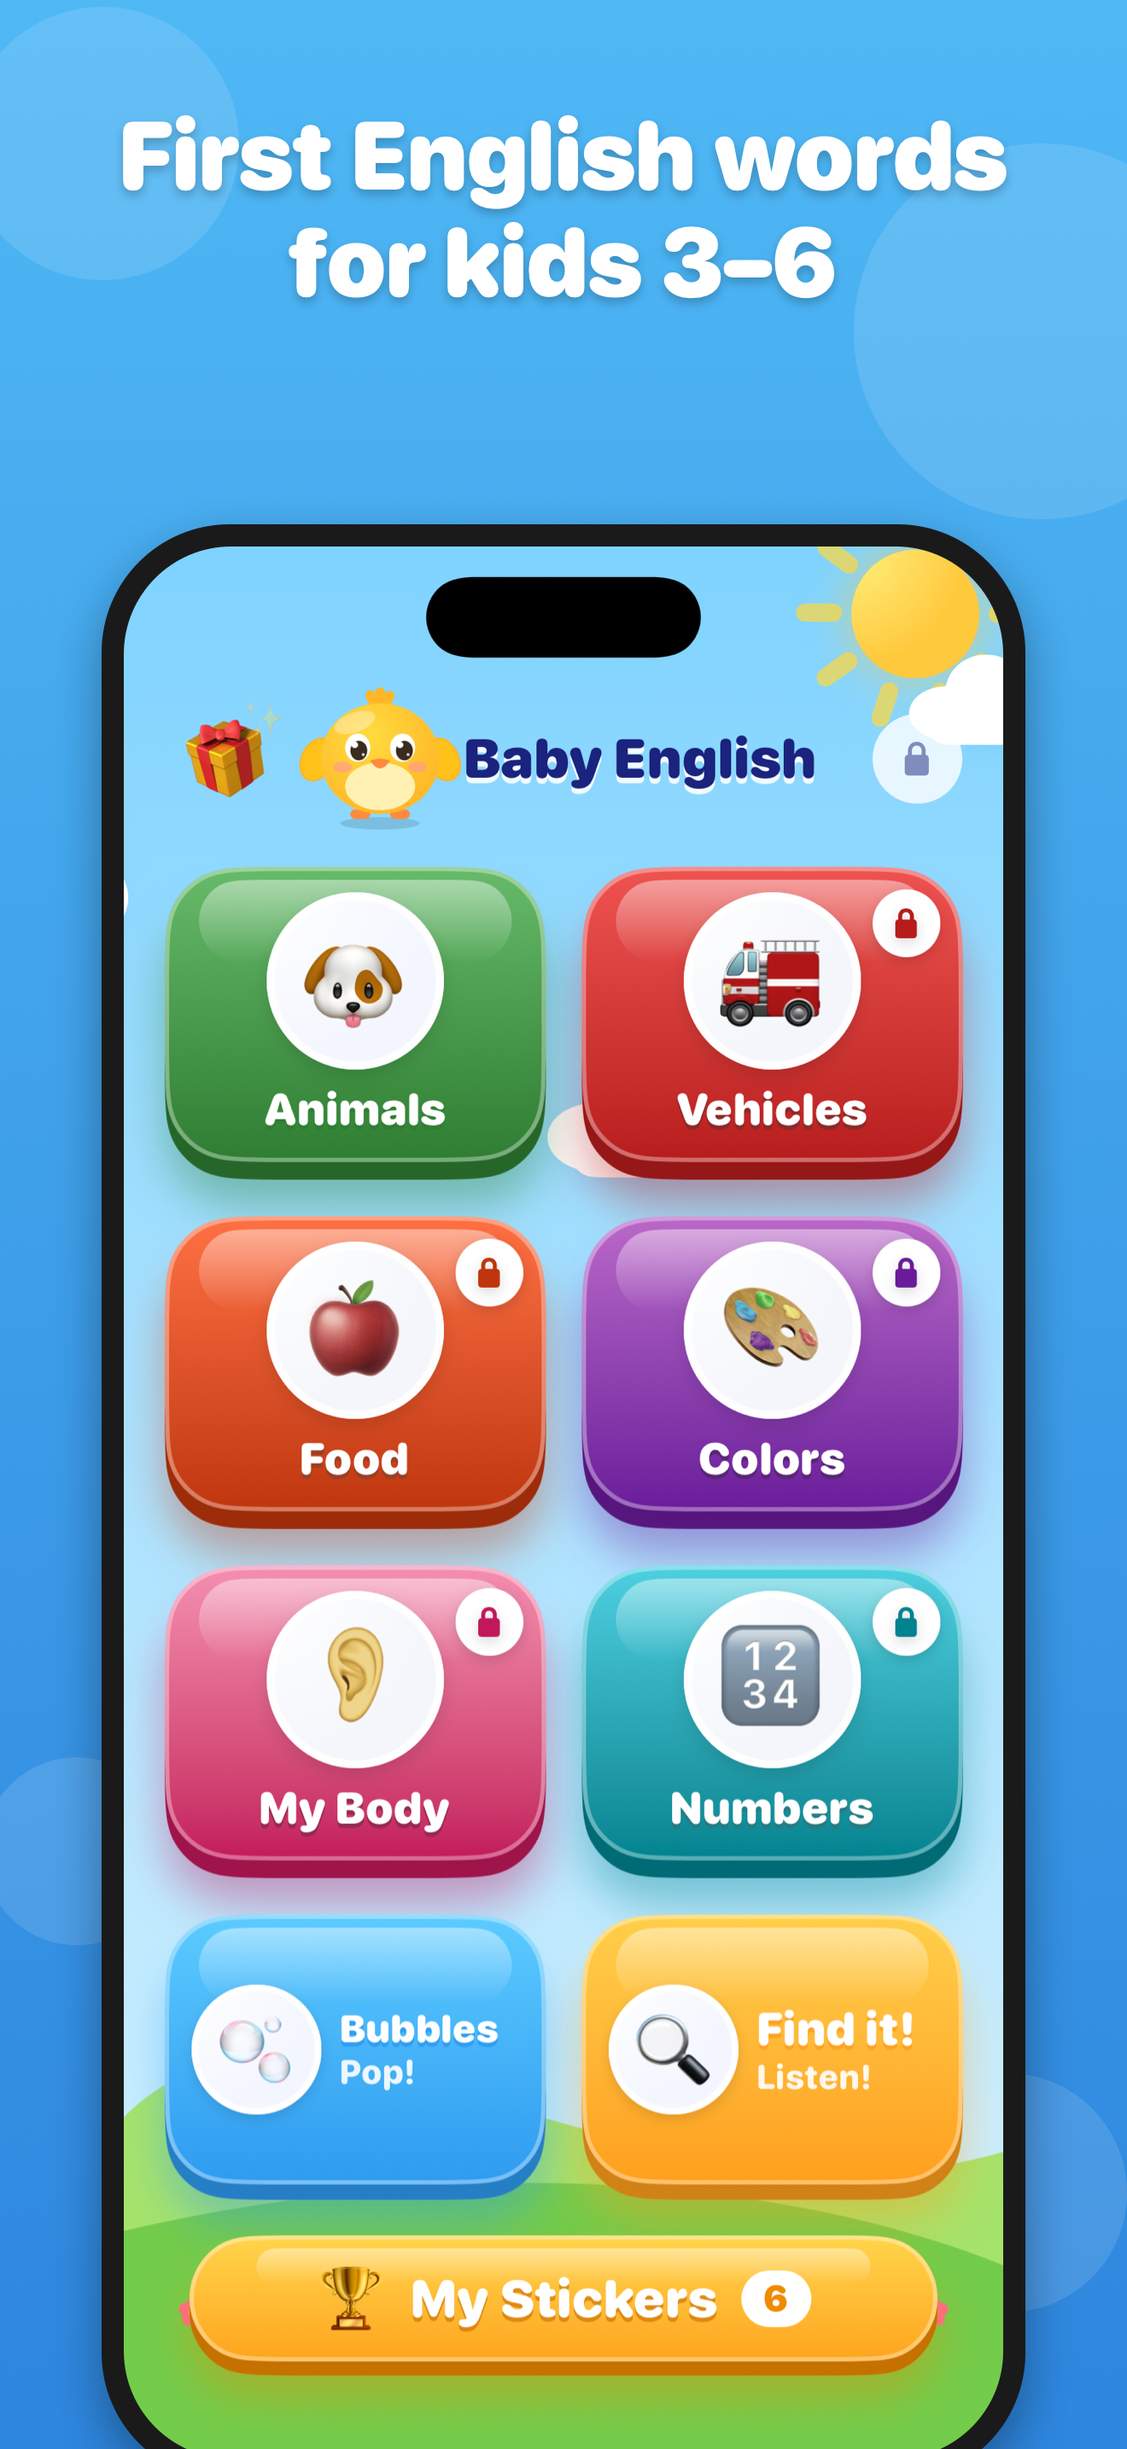
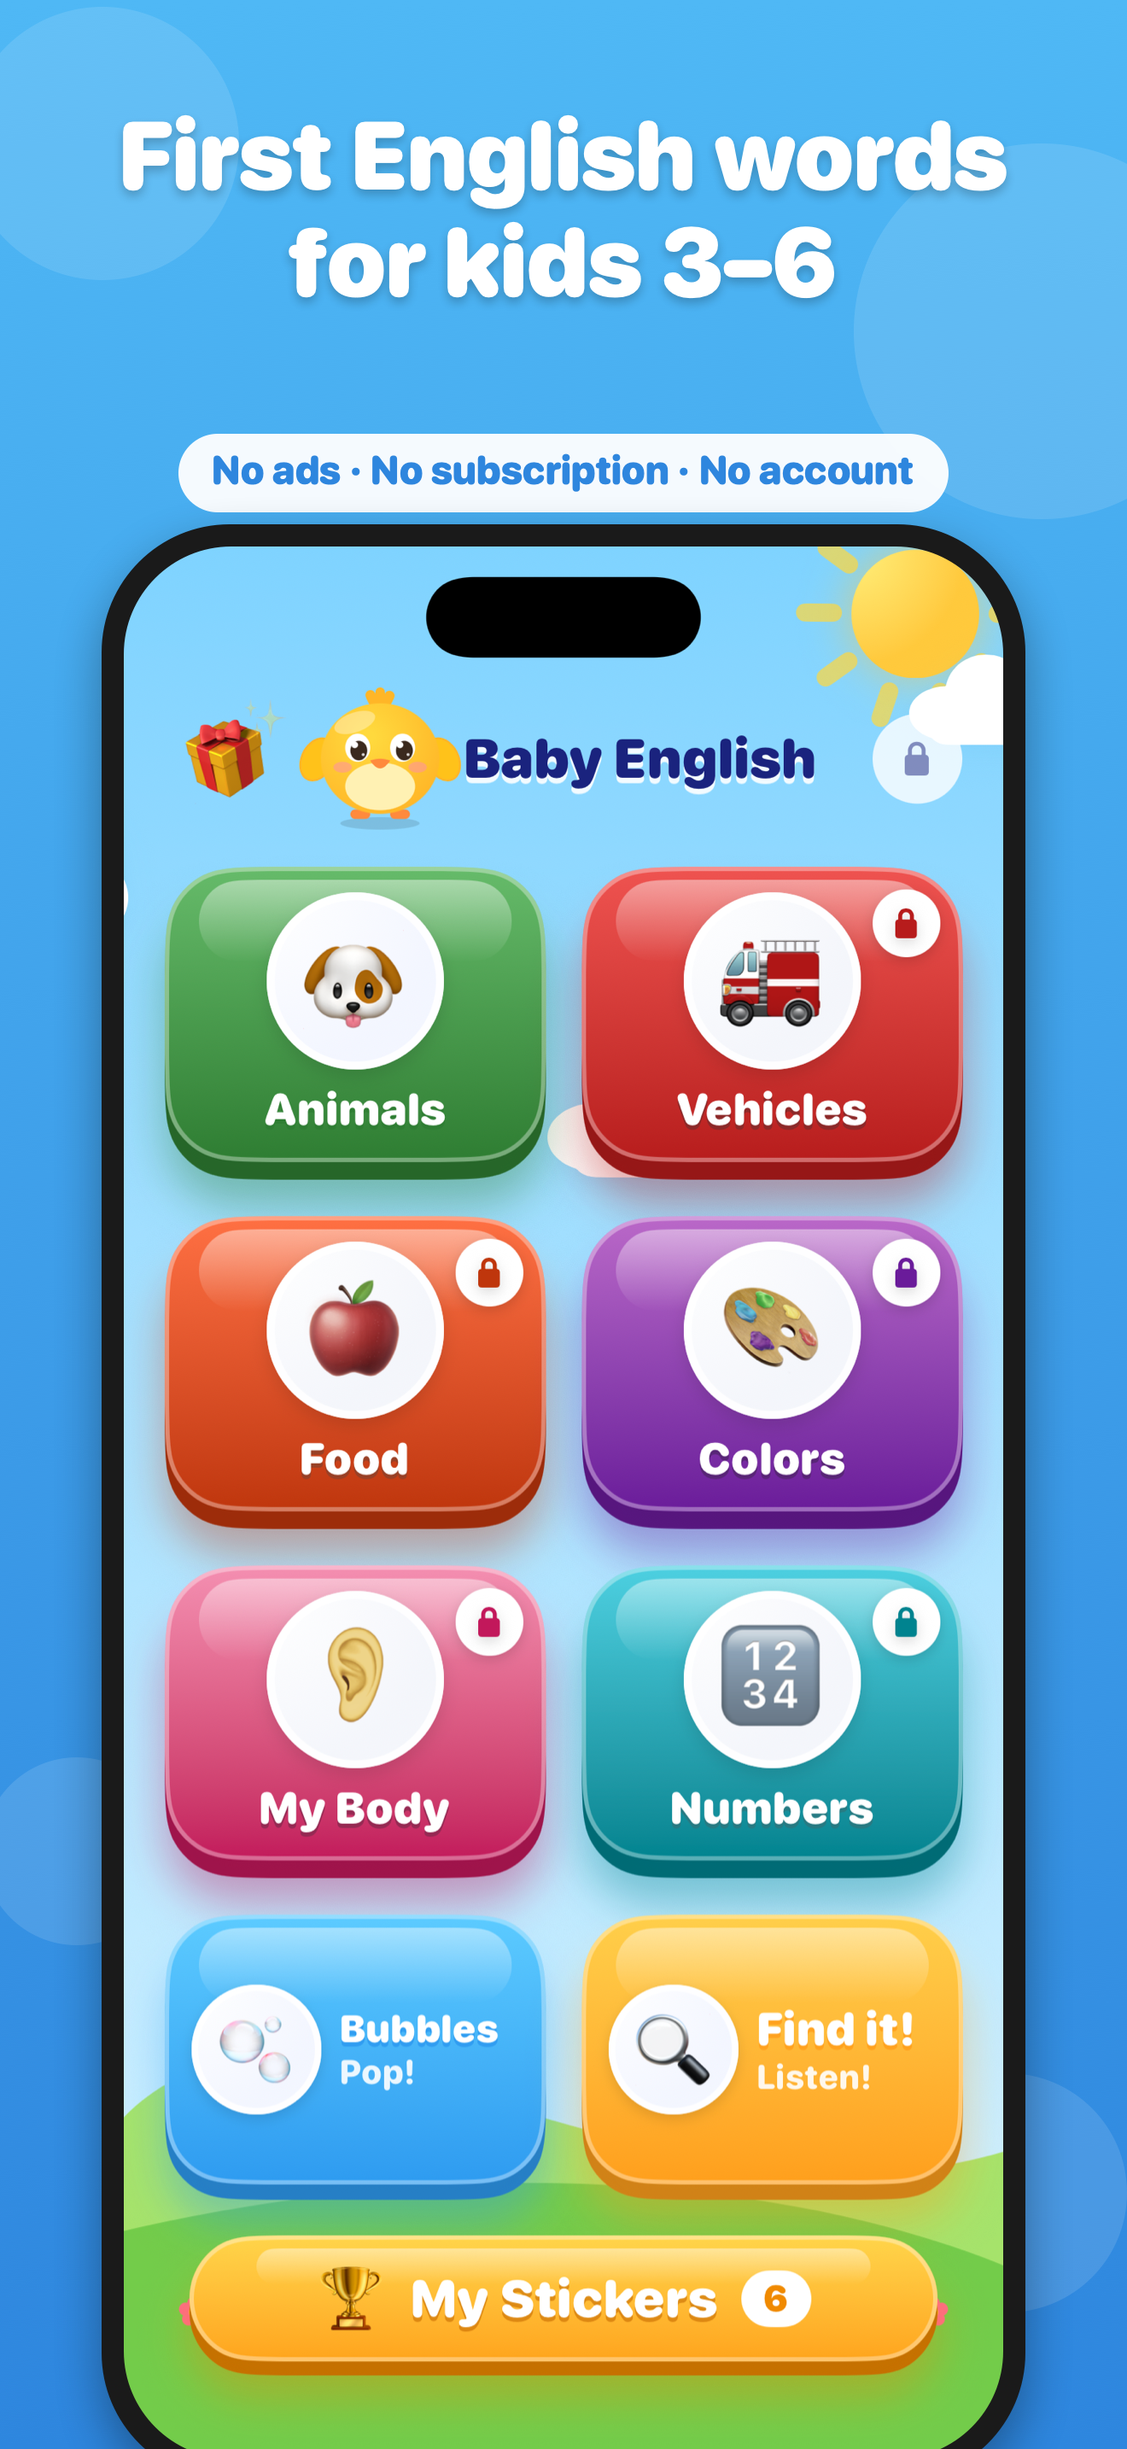
feat: trust badges, calm mode, play-together framing, research-backed launch plan
- Screenshot 1 (EN/HE) now carries "No ads · No subscription · No account"
- Calm mode toggle in the Parent Zone: no confetti or bouncing decorations
  (shares the Reduce Motion switch)
- Parent tips and the Hebrew→English toggle frame the app as play-together;
  new "5–10 minutes a day" tip; the listing mentions known words, play
  together and calm mode
- Launch plan: feedback-first teaser post, Apple featuring nomination and
  Common Sense Media during review; research summary in GO_TO_MARKET.md

Changed region(s): [[0.1553, 0.1552, 0.8386, 0.2172]]

diff --git a/docs/index.html b/docs/index.html
@@ -28,7 +28,7 @@ footer{text-align:center;padding:30px 16px 50px;color:var(--muted)}footer a{colo
 <div class="hero"><div class="top"><div class="brand"><img src="assets/icon.png" alt="">Baby English</div><a class="lang" href="en.html">English</a></div>
 <h1>מילים ראשונות באנגלית<br>לילדים בגילאי 3 עד 6</h1><p class="sub">קול ברור, תמונות גדולות ושלושה משחקים שבנויים לידיים קטנות. עם פיפ, האפרוח שמריע על כל הצלחה.</p><span class="cta soon">בקרוב ב-App Store</span><p class="free">בלי מנוי, אף פעם · עולם החיות וכל המשחקים בחינם · בלי פרסומות · בלי חשבון</p>
 <div class="shots"><img src="assets/he_01_home.jpg" alt="" loading="lazy"><img src="assets/he_02_bubbles.jpg" alt="" loading="lazy"><img src="assets/he_03_findit.jpg" alt="" loading="lazy"><img src="assets/he_05_celebrate.jpg" alt="" loading="lazy"></div></div>
-<section><div class="grid"><div class="card"><div class="e">🫧</div><h3>בועות</h3><p>מפוצצים בועות ושומעים את המילה. כל נגיעה עושה משהו, אין דרך להיכשל.</p></div><div class="card"><div class="e">🔍</div><h3>Find it!</h3><p>שומעים מילה ומוצאים את התמונה. מתחיל עם 2 תמונות ומתקדם יחד עם הילד.</p></div><div class="card"><div class="e">🃏</div><h3>כרטיסיות</h3><p>נוגעים בכל מקום ושומעים את המילה הבאה. 60 מילים ב-6 עולמות: חיות, כלי תחבורה, אוכל, צבעים, הגוף שלי ומספרים.</p></div><div class="card"><div class="e">🗣</div><h3>עברית ← אנגלית</h3><p>שומעים קודם את המילה בעברית ואז באנגלית: ״כלב… Dog!״. הילד מחבר את המילה החדשה למה שהוא כבר מכיר.</p></div><div class="card"><div class="e">🏆</div><h3>מדבקות</h3><p>כל סבב שמסתיים מזכה במדבקה וחגיגה קטנה, ופעם ביום פיפ משאיר מתנת הפתעה 🎁</p></div></div></section>
+<section><div class="grid"><div class="card"><div class="e">🫧</div><h3>בועות</h3><p>מפוצצים בועות ושומעים את המילה. כל נגיעה עושה משהו, אין דרך להיכשל.</p></div><div class="card"><div class="e">🔍</div><h3>Find it!</h3><p>שומעים מילה ומוצאים את התמונה. מתחיל עם 2 תמונות ומתקדם יחד עם הילד.</p></div><div class="card"><div class="e">🃏</div><h3>כרטיסיות</h3><p>נוגעים בכל מקום ושומעים את המילה הבאה. 60 מילים ב-6 עולמות: חיות, כלי תחבורה, אוכל, צבעים, הגוף שלי ומספרים.</p></div><div class="card"><div class="e">🗣</div><h3>עברית ← אנגלית</h3><p>שומעים קודם את המילה בעברית ואז באנגלית: ״כלב… Dog!״. הילד מחבר את המילה החדשה למה שהוא כבר מכיר. הכי טוב כשמשחקים יחד עם ההורה.</p></div><div class="card"><div class="e">🏆</div><h3>מדבקות</h3><p>כל סבב שמסתיים מזכה במדבקה וחגיגה קטנה, ופעם ביום פיפ משאיר מתנת הפתעה 🎁</p></div></div></section>
 <section><h2>להורים</h2><ul class="par"><li>✓ בלי פרסומות, בלי אנליטיקה, בלי מעקב. שום מידע לא יוצא מהמכשיר.</li><li>✓ רכישה חד-פעמית וקטנה פותחת את כל העולמות. בלי מנוי. כולל שיתוף משפחתי.</li><li>✓ כל מה שמיועד למבוגרים נמצא מאחורי שער הורים.</li><li>✓ עובד בלי אינטרנט וגם במצב שקט.</li></ul></section>
 <section id="support"><h2>תמיכה</h2><p>שאלות או בעיה? כתבו לנו <a href="https://github.com/ahochma/baby-english/issues">כאן</a>.</p></section>
 <footer><a href="privacy.html">מדיניות פרטיות</a> · © 2026 Baby English</footer></body></html>

diff --git a/ios/App/App/ParentZoneView.swift b/ios/App/App/ParentZoneView.swift
@@ -174,7 +174,20 @@ struct ParentZoneView: View {
                 Toggle(isOn: $settings.bilingualHebrew) {
                     VStack(alignment: .leading, spacing: 2) {
                         Label(L10n.t("Hebrew → English", "עברית ← אנגלית"), systemImage: "character.bubble.fill")
-                        Text(L10n.t("Says the Hebrew word first: “כלב… Dog!”", "אומר קודם את המילה בעברית: ״כלב… Dog!״"))
+                        Text(L10n.t("Says the Hebrew word first: “כלב… Dog!”. Works best when you play together and repeat.",
+                                    "אומר קודם את המילה בעברית: ״כלב… Dog!״. עובד הכי טוב כשמשחקים יחד וחוזרים על המילה."))
+                            .font(.parent(13))
+                            .foregroundColor(Palette.parentInk.opacity(0.55))
+                    }
+                }
+                .tint(Palette.accent)
+                .padding(.vertical, 6)
+                Divider().padding(.vertical, 6)
+                Toggle(isOn: $settings.calmMode) {
+                    VStack(alignment: .leading, spacing: 2) {
+                        Label(L10n.t("Calm mode", "מצב רגוע"), systemImage: "leaf.fill")
+                        Text(L10n.t("No confetti or bouncing decorations. Good for bedtime.",
+                                    "בלי קונפטי ובלי קישוטים קופצים. מתאים גם לפני השינה."))
                             .font(.parent(13))
                             .foregroundColor(Palette.parentInk.opacity(0.55))
                     }
@@ -224,8 +237,10 @@ struct ParentZoneView: View {
                                  "הבועות הן חימום רגוע: כל נגיעה משמיעה צליל, ואין דרך להיכשל."))
                 tip("🔍", L10n.t("Find it! starts with 2 pictures and grows to 4 as your child gets it right.",
                                  "Find it! מתחיל עם 2 תמונות ומתקדם עד 4 ככל שהילד מצליח."))
-                tip("🗣", L10n.t("Say the word together with the app and point at the picture — that's when the magic happens.",
-                                 "אמרו את המילה יחד עם האפליקציה והצביעו על התמונה — שם קורה הקסם."))
+                tip("👨👧", L10n.t("Play together when you can. Young children learn words best from a person: point at the picture, say the word with the app, then use it later in the day (\"Look, a dog!\").",
+                                 "שחקו יחד כשאפשר. ילדים קטנים לומדים מילים הכי טוב מאדם: הצביעו על התמונה, אמרו את המילה יחד עם האפליקציה, ואחר כך השתמשו בה במהלך היום (״Look, a dog!״)."))
+                tip("⏱", L10n.t("Short and often beats long: 5–10 minutes a day is plenty at this age.",
+                                 "קצר ולעתים קרובות עדיף על ארוך: 5–10 דקות ביום זה בדיוק מספיק בגיל הזה."))
                 tip("🏠", L10n.t("To leave a game, press and hold the house button for a moment.",
                                  "כדי לצאת ממשחק, לחצו לחיצה ארוכה על כפתור הבית."))
                 tip("🔒", L10n.t("Keep your child inside the app with Guided Access: Settings → Accessibility → Guided Access, then triple-click the side button.",

diff --git a/ios/App/App/Services.swift b/ios/App/App/Services.swift
@@ -214,6 +214,11 @@ final class SettingsStore: ObservableObject {
             AudioManager.shared.updateMusic()
         }
     }
+    /// Calm mode: no confetti, no spinning or bobbing decorations. For children
+    /// who get over-excited, or for bedtime.
+    @Published var calmMode: Bool {
+        didSet { UserDefaults.standard.set(calmMode, forKey: "calmMode") }
+    }
     /// Say the Hebrew word before the English one. On by default for Hebrew devices.
     @Published var bilingualHebrew: Bool {
         didSet { UserDefaults.standard.set(bilingualHebrew, forKey: "bilingualHebrew") }
@@ -223,6 +228,7 @@ final class SettingsStore: ObservableObject {
         let d = UserDefaults.standard
         soundEffectsOn = d.object(forKey: "soundEffectsOn") as? Bool ?? true
         musicOn = d.object(forKey: "musicOn") as? Bool ?? true
+        calmMode = d.bool(forKey: "calmMode")
         bilingualHebrew = d.object(forKey: "bilingualHebrew") as? Bool ?? L10n.isHebrew
     }
 }

diff --git a/ios/App/App/Theme.swift b/ios/App/App/Theme.swift
@@ -73,10 +73,11 @@ extension Font {
     }
 }
 
-/// Continuous decorative motion (bobbing, drifting clouds, spinning sun) is
-/// switched off when the device asks for reduced motion.
+/// Continuous decorative motion (bobbing, drifting clouds, spinning sun,
+/// confetti) is switched off when the device asks for reduced motion or a
+/// parent turns on Calm mode.
 enum Motion {
-    static var reduced: Bool { UIAccessibility.isReduceMotionEnabled }
+    static var reduced: Bool { UIAccessibility.isReduceMotionEnabled || SettingsStore.shared.calmMode }
 }
 
 // ─────────────────────────────────────────────

diff --git a/ios/App/App/FindItView.swift b/ios/App/App/FindItView.swift
@@ -64,7 +64,7 @@ struct FindItView: View {
                 .frame(maxWidth: 1000)
                 .frame(maxWidth: .infinity)
 
-                if solved {
+                if solved && !Motion.reduced {
                     ConfettiView(emojis: ["⭐", "🌟", "✨"], count: 18)
                         .ignoresSafeArea()
                 }

diff --git a/docs/LAUNCH_50.md b/docs/LAUNCH_50.md
@@ -32,6 +32,10 @@ Everything that can be prepared is already in the repo:
 - Post a teaser in 2–3 parent groups: "Building a small ad-free English app for 3–6 year olds, launching this week. Who wants the link first?" Collect a list of people who reply "me".
 - Prepare 3 Reels/TikToks from the TestFlight videos (or from the simulator: demo mode plays itself, see the end).
 
+### Tue 24 (while in review): trust & featuring
+- App Store Connect → **Featuring Nominations** → nominate the launch (Kids, Education). Mention: no ads, no subscription, no data, Hebrew→English mode.
+- Check whether **Common Sense Media** accepts title suggestions, and suggest Baby English. Their reviews carry a lot of weight with parents.
+
 ### Thu 26: launch day (target 25 downloads)
 - As soon as it's "Ready for Sale": put the link in `docs/index.html` (`APP_STORE_URL` at the top of the generator, or just replace the "Coming soon" button) and send it to **everyone who said "me"**.
 - Post the main launch post (below) in **3 groups**, staggered morning / noon / evening.
@@ -74,8 +78,10 @@ Fill the bracketed parts with real details only. Made-up testimonials hurt trust
 ### Short version (WhatsApp)
 > היי! השקנו אפליקציה קטנה לילדים 3–6 שמלמדת מילים ראשונות באנגלית עם משחקים. בלי פרסומות, חיות וכל המשחקים בחינם 🐣 [קישור] — אשמח אם תנסו ותספרו לי מה הילד/ה חשב/ה!
 
-### Teaser (Tue/Wed)
-> אנחנו משיקים השבוע אפליקציה קטנה וללא פרסומות ללימוד אנגלית לילדים בגילאי 3–6 🐣 מי רוצה לקבל את הקישור ראשון? תכתבו "אני" 👇
+### Teaser (Tue/Wed): ask for feedback, not downloads
+> בנינו אפליקציה קטנה, בלי פרסומות ובלי מנוי, ללימוד מילים ראשונות באנגלית לגילאי 3–6 🐣 מחפשים 10 הורים שינסו אותה השבוע עם הילדים ויגידו לנו בכנות מה עבד ומה לא. מי בפנים? 👇
+
+> Why this wording: indie developers report that "please give feedback" posts in small parent groups convert far better than ads or link drops (link drops on Reddit got upvotes but almost no downloads).
 
 ### Message to English teachers / tutors
 > היי [שם], ראיתי את העבודה שלך עם ילדים ואהבתי. בנינו אפליקציה קטנה וללא פרסומות לגילאי 3–6 שמלמדת 60 מילים ראשונות באנגלית עם משחקים. אשמח לתת לך קוד גישה מלא במתנה. אם תאהבי, אשמח שתשתפי עם ההורים. [קישור]

diff --git a/docs/GO_TO_MARKET.md b/docs/GO_TO_MARKET.md
@@ -26,6 +26,15 @@ Israel without paid ads, because the Hebrew App Store has almost no polished
 
 Competitor reviews (e.g. 1-star reviews on popular kids' English apps) are dominated by: surprise monthly charges, trials that convert into payments, subscriptions that can't be cancelled, and data/email concerns. Baby English has none of these. Lead every post, screenshot and reply with it: **"Pay once. No subscription. No account."**
 
+## What parents reward (research summary, Nov 2026)
+
+From roughly 340 Reddit app reviews, aggregated by GummySearch, plus indie-developer threads on Hacker News:
+- **Most recommended:** free/fair, **no ads, no tricks** (Khan Academy Kids); **visible learning** ("she learned to read"); **calm** design (Pok Pok, Endless Alphabet); good narration.
+- **Most hated:** ads, trials that turn into charges, subscriptions that are hard to cancel, "ask your parents" pester prompts.
+- **Pricing:** parents happily pay a one-time premium price when quality is obvious ($8.99 Endless Alphabet called "worth it").
+- **Indie marketing that worked:** friends-of-friends → small parent groups **asking for feedback**; Apple featuring nominations; teacher communities; each update as a news moment. Link drops in big subreddits did not convert.
+- **Honesty:** toddlers learn words best with a person, so frame the app as something to **play together**, never promise fluency.
+
 ## Four-week launch plan
 
 ### Week 0: before release
